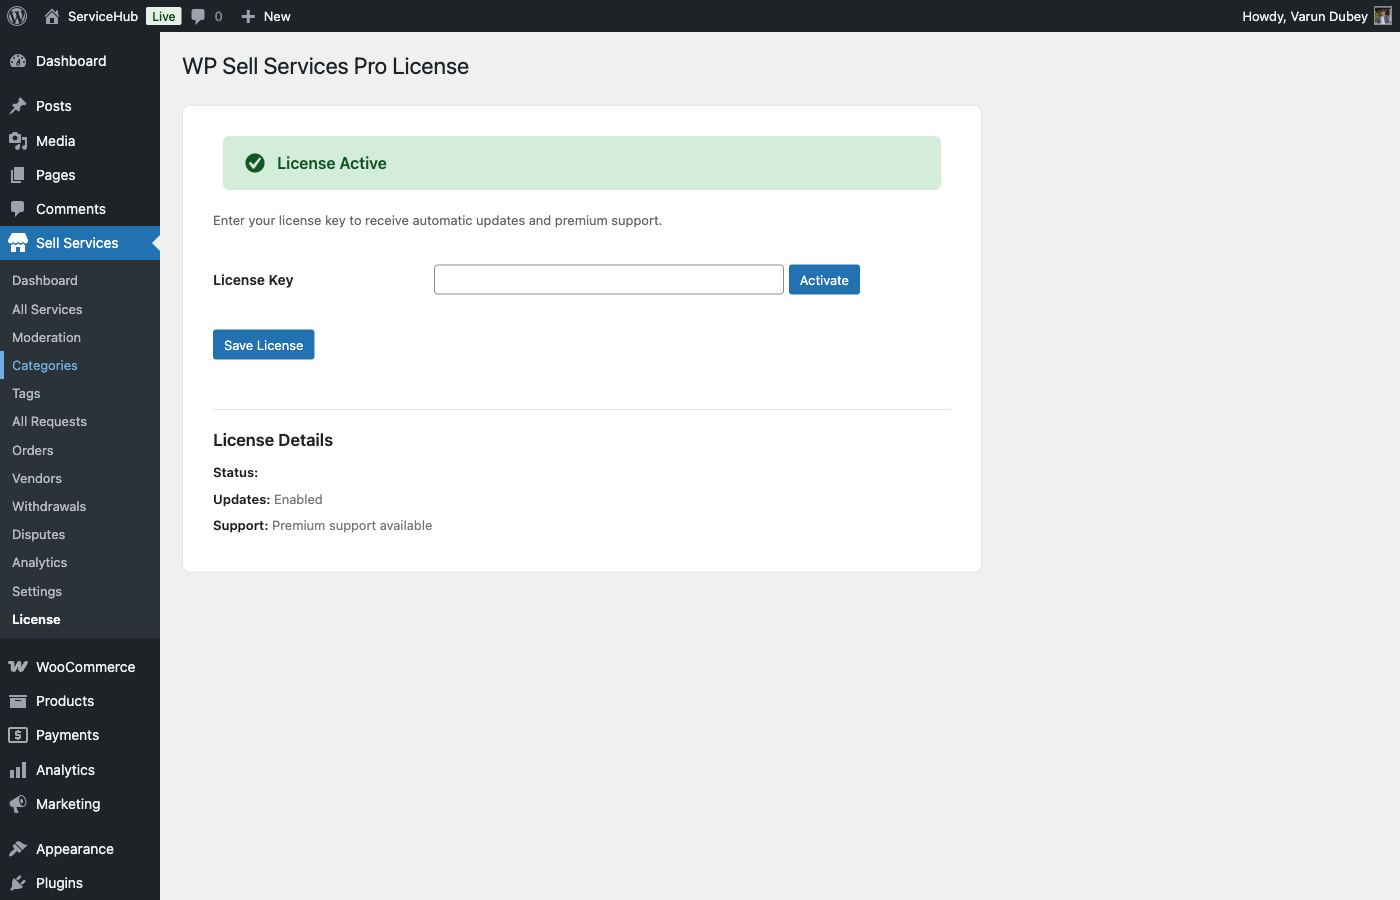
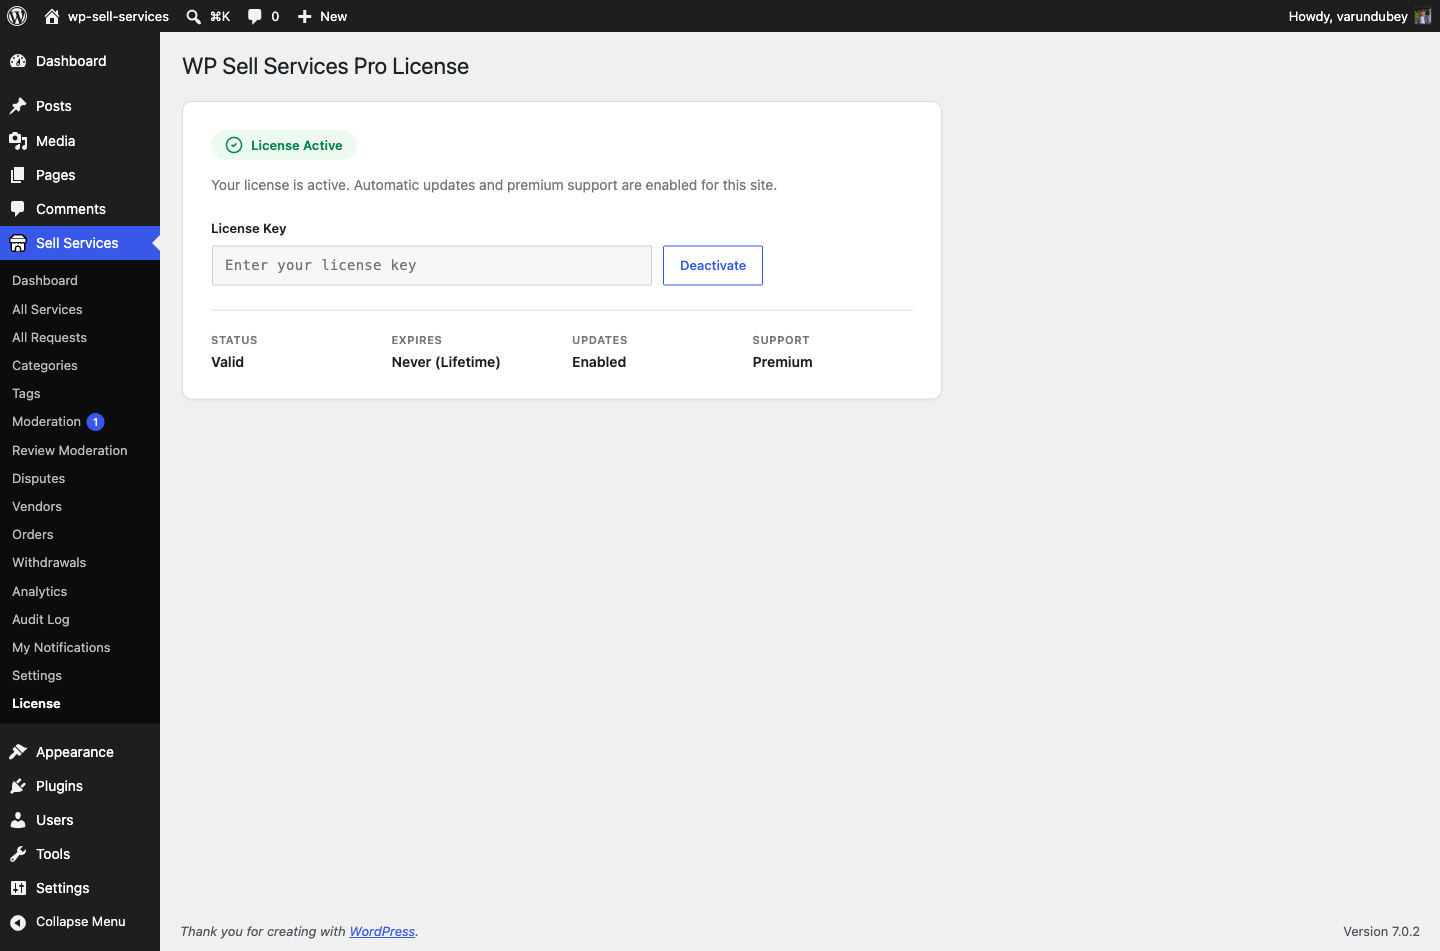
docs: add 7 Pro screenshots; document Menu Visibility; fix two claims
The Pro screenshots were previously blocked "needs a licensed environment".
They were not: this site carries a legacy activation flag
(wpss_pro_license_status = 'valid') that Manager::is_valid() still honours for
back-compat, so activating Pro brought every Pro surface up with no key set.

Captured: License screen, Branding (White Label), Commission rules, PayPal
payouts, Stripe Connect, Cloud Storage + Display Currency, Vendor
Subscriptions. Wired into the 7 Pro pages that had no image.

Corrections the screenshots forced:
- white-label: "footer text" is the transactional EMAIL footer, not a dashboard
  footer, and the logo has a recommended 240x60 size. Written from the option
  defaults, corrected against the rendered field labels.
- pro-license: a site upgraded from an older Pro shows "License Active" with an
  EMPTY key box, because the legacy flag is honoured before the current option
  is written. That looks alarming and is fine; documented so nobody re-enters a
  key thinking it was lost.

New feature documented: Menu Visibility (Settings > Advanced). A role x
dashboard-section grid, shipped free and never documented. Notes the part that
matters -- hiding a section also refuses its direct URL, so it is access
control rather than menu cosmetics, and multiple roles union their
restrictions rather than taking the most permissive.

Pro is left ACTIVE on the dev site; it was inactive before this pass.

diff --git a/docs/qa/coverage-matrix.md b/docs/qa/coverage-matrix.md
@@ -4,7 +4,7 @@ Internal QA artifact -- **not published to customers**. It is the answer to
 "is every shipped feature documented, for the right audience?"
 
 - **Last verified:** 2026-07-29 against plugin 1.3.0 / Pro 1.3.0 (99 pages)
-- **Screenshots:** 15 captured live on 2026-07-29 at 1440px; 8 stale pre-restructure settings images replaced
+- **Screenshots:** 23 captured live on 2026-07-29 at 1440px (16 free + 7 Pro); 8 stale pre-restructure settings images replaced
 - **Docs root:** `wp-sell-services/docs/website/` (single source of truth; Pro tree retired)
 - **Automated gate:** `python3 bin/docs-audit.py`
 
@@ -147,6 +147,8 @@ source before the doc was changed.
 
 | Claim in the docs | What the code does | Where |
 |-------------------|--------------------|-------|
+| (undocumented) Menu Visibility -- hide dashboard sections per role, and it blocks the direct URL too | Shipped free, never documented | `advanced-settings.md` |
+| White Label "footer text" described as a dashboard footer | It is the transactional **email** footer | `white-label.md` |
 | (undocumented) Activation grants vendor capabilities to the **`author`** role | Every existing WordPress author silently becomes a vendor on activation | `capabilities.md` |
 | Tips are commission-free, vendor keeps 100% | Tips are commissioned at the **regular rate** by default; `tip_commission_rate` can be set to `0` | 4 pages |
 | An expired Pro license only stops updates | Expired/invalid license means **Pro features stop loading entirely** | 2 pages |
@@ -167,7 +169,7 @@ Tracked, not silently dropped.
 
 | Gap | Impact | Priority |
 |-----|--------|----------|
-| **No screenshots on Pro setup pages.** Blocked: Pro loads nothing without a valid license key, so its screens cannot be captured on a dev site | Pro setup is text-only | P1 |
+
 | `image_map.json` / `image-mapping.json` map local filenames to docs.wbcomdesigns.com URLs, are duplicates of each other, and are read by nothing in the repo. **The 8 screenshots replaced on 2026-07-29 still map to the old uploaded files**, so any publish step driven by these maps would ship the pre-restructure images | Stale images could reappear on a published site | P1 |
 | ~20 free pages still have no screenshot (developer references and FAQs excluded -- they do not need one) | Minor | P3 |
 | 77 of 454 hooks remain undocumented (declared internal) | Low -- template and behavioural surfaces are both covered | P3 |

diff --git a/docs/website/platform-settings/advanced-settings.md b/docs/website/platform-settings/advanced-settings.md
@@ -84,6 +84,36 @@ Configure this at **Sell Services > Settings > General**.
 
 ---
 
+## Menu Visibility
+
+Hide dashboard sections from specific roles. The **Menu Visibility** card is a
+grid: dashboard sections down the side, every role on your site across the top.
+Tick a box to hide that section from that role.
+
+Leave everything unticked -- the default -- and every role sees every section.
+
+Sections you can hide: My Orders, Favorites, Buyer Requests, My Services, Sales
+Orders, Earnings & Payouts, Portfolio, Analytics, Messages, Notifications,
+Disputes, Profile.
+
+**Hiding a section also blocks its direct URL.** This is access control, not just
+menu cosmetics -- a user who bookmarks a hidden section is refused, so you can use
+it to genuinely take a capability away from a role rather than merely hiding the
+link.
+
+A section is hidden for a user when **any** of their roles hides it. Someone with
+two roles gets the union of both restrictions, not the more permissive of the
+two.
+
+Typical uses:
+
+- Hide the whole selling side (My Services, Sales Orders, Earnings & Payouts, Portfolio) from a buyer-only role.
+- Hide Analytics from vendors while keeping it for administrators.
+- Hide Disputes from everyone while you decide on a mediation policy.
+
+For developers, the same gate is exposed as the `wpss_can_access_dashboard_section`
+filter -- see [Hooks and Filters](../developer-guide/hooks-filters.md).
+
 ## Demo Content
 
 ### Import Demo Content

diff --git a/docs/website/platform-settings/white-label.md b/docs/website/platform-settings/white-label.md
@@ -3,6 +3,8 @@
 Make the marketplace yours. White Label replaces WP Sell Services branding with
 your own across the admin, the vendor dashboard, and transactional emails.
 
+![White Label settings on the Branding tab](../images/settings-branding-tab.png)
+
 ## Setup
 
 1. Go to **Sell Services > Settings > Branding**.
@@ -16,9 +18,9 @@ Branding applies immediately. There are no template edits and no CSS to write.
 | Setting | What it changes | Default |
 |---------|----------------|---------|
 | **Brand name** | The admin menu label, and the name shown in emails and the dashboard header | *(empty -- uses the plugin name)* |
-| **Logo** | Shown in the vendor dashboard header and email headers | *(empty)* |
+| **Logo** | Shown in the vendor dashboard header and email headers. Recommended 240 x 60 px | *(empty)* |
 | **Primary colour** | Accent colour across admin, dashboard, and email headers | `#7f54b3` |
-| **Footer text** | Custom text in the dashboard footer | *(empty)* |
+| **Email footer text** | Small-print line at the bottom of every transactional email | *(empty)* |
 | **Email from name** | The sender name on every transactional email | *(empty -- uses your site name)* |
 | **Hide branding** | Removes the "powered by" attribution | Off |
 

diff --git a/docs/website/getting-started/pro-license.md b/docs/website/getting-started/pro-license.md
@@ -3,6 +3,8 @@
 WP Sell Services Pro uses a license key to unlock Pro features, deliver
 automatic updates, and give you priority support.
 
+![The License screen under Sell Services](../images/admin-pro-license.png)
+
 ## Activate your license
 
 1. Buy Pro. Your key is in the purchase receipt email and on your account page at [wbcomdesigns.com](https://wbcomdesigns.com).
@@ -59,6 +61,13 @@ expiry date. A key marked `lifetime` never expires.
 If activation fails, the screen reports the reason returned by the store -- an
 exhausted site limit and a mistyped key produce different messages, so read it
 before retrying.
+
+> **"Active" with an empty key field is normal after an upgrade.** Sites licensed
+> on an older version of Pro carry a legacy activation flag, and the plugin
+> honours it so that upgrading never silently switches Pro off. The key box
+> renders empty because the current option has not been written yet -- Pro is
+> genuinely active. Paste your key and activate again whenever convenient to move
+> the site onto the current record.
 
 ## Moving to a new site
 

diff --git a/docs/website/payments-checkout/display-currency.md b/docs/website/payments-checkout/display-currency.md
@@ -7,6 +7,8 @@ This is a **display-only hint**. Orders, earnings, commission, refunds, and
 payouts are always calculated and recorded in your base currency. Nothing about
 the stored price changes -- only what a visitor sees while browsing.
 
+![Display Currency settings on the Advanced tab](../images/settings-cloud-storage-currency.png)
+
 ## Why display-only
 
 A marketplace that genuinely stored prices in many currencies would have to

diff --git a/docs/website/payments-checkout/stripe-connect.md b/docs/website/payments-checkout/stripe-connect.md
@@ -8,6 +8,8 @@ It uses **Stripe Connect Express**: each vendor completes a short Stripe-hosted
 onboarding to connect their bank account. Stripe handles their identity and
 compliance checks, so you never collect or store vendor bank details.
 
+![The Stripe Connect card on the Payment Gateways tab](../images/settings-stripe-connect.png)
+
 ## How it works
 
 1. You enable Stripe Connect once, using the Stripe keys you already configured.

diff --git a/docs/website/earnings-wallet/tiered-commission.md b/docs/website/earnings-wallet/tiered-commission.md
@@ -8,6 +8,8 @@ Free already gives you a global rate and per-vendor overrides. Tiered rules are
 for when "which rate applies" is a question about the *sale*, not about a
 specific vendor you hand-picked.
 
+![Commission rules on the Commission & Tax tab](../images/settings-tiered-commission.png)
+
 ## The three rule types
 
 | Type | Matches on | Typical use |

diff --git a/docs/website/vendor-system/vendor-subscription-plans.md b/docs/website/vendor-system/vendor-subscription-plans.md
@@ -7,6 +7,8 @@ commission rate they pay.
 Billing runs through **hosted Stripe Checkout**, so card details never touch your
 site.
 
+![Vendor Subscriptions on the Vendors tab](../images/settings-vendor-subscriptions.png)
+
 ## Setting up
 
 1. Add your Stripe keys under **Sell Services > Settings > Payment Gateways**.

diff --git a/docs/website/cloud-storage/cloud-setup.md b/docs/website/cloud-storage/cloud-setup.md
@@ -4,6 +4,8 @@ Connect your marketplace to Amazon S3, Google Cloud Storage, or DigitalOcean Spa
 
 ---
 
+![Cloud Storage settings on the Advanced tab](../images/settings-cloud-storage-currency.png)
+
 ## Before You Start
 
 You will need:
